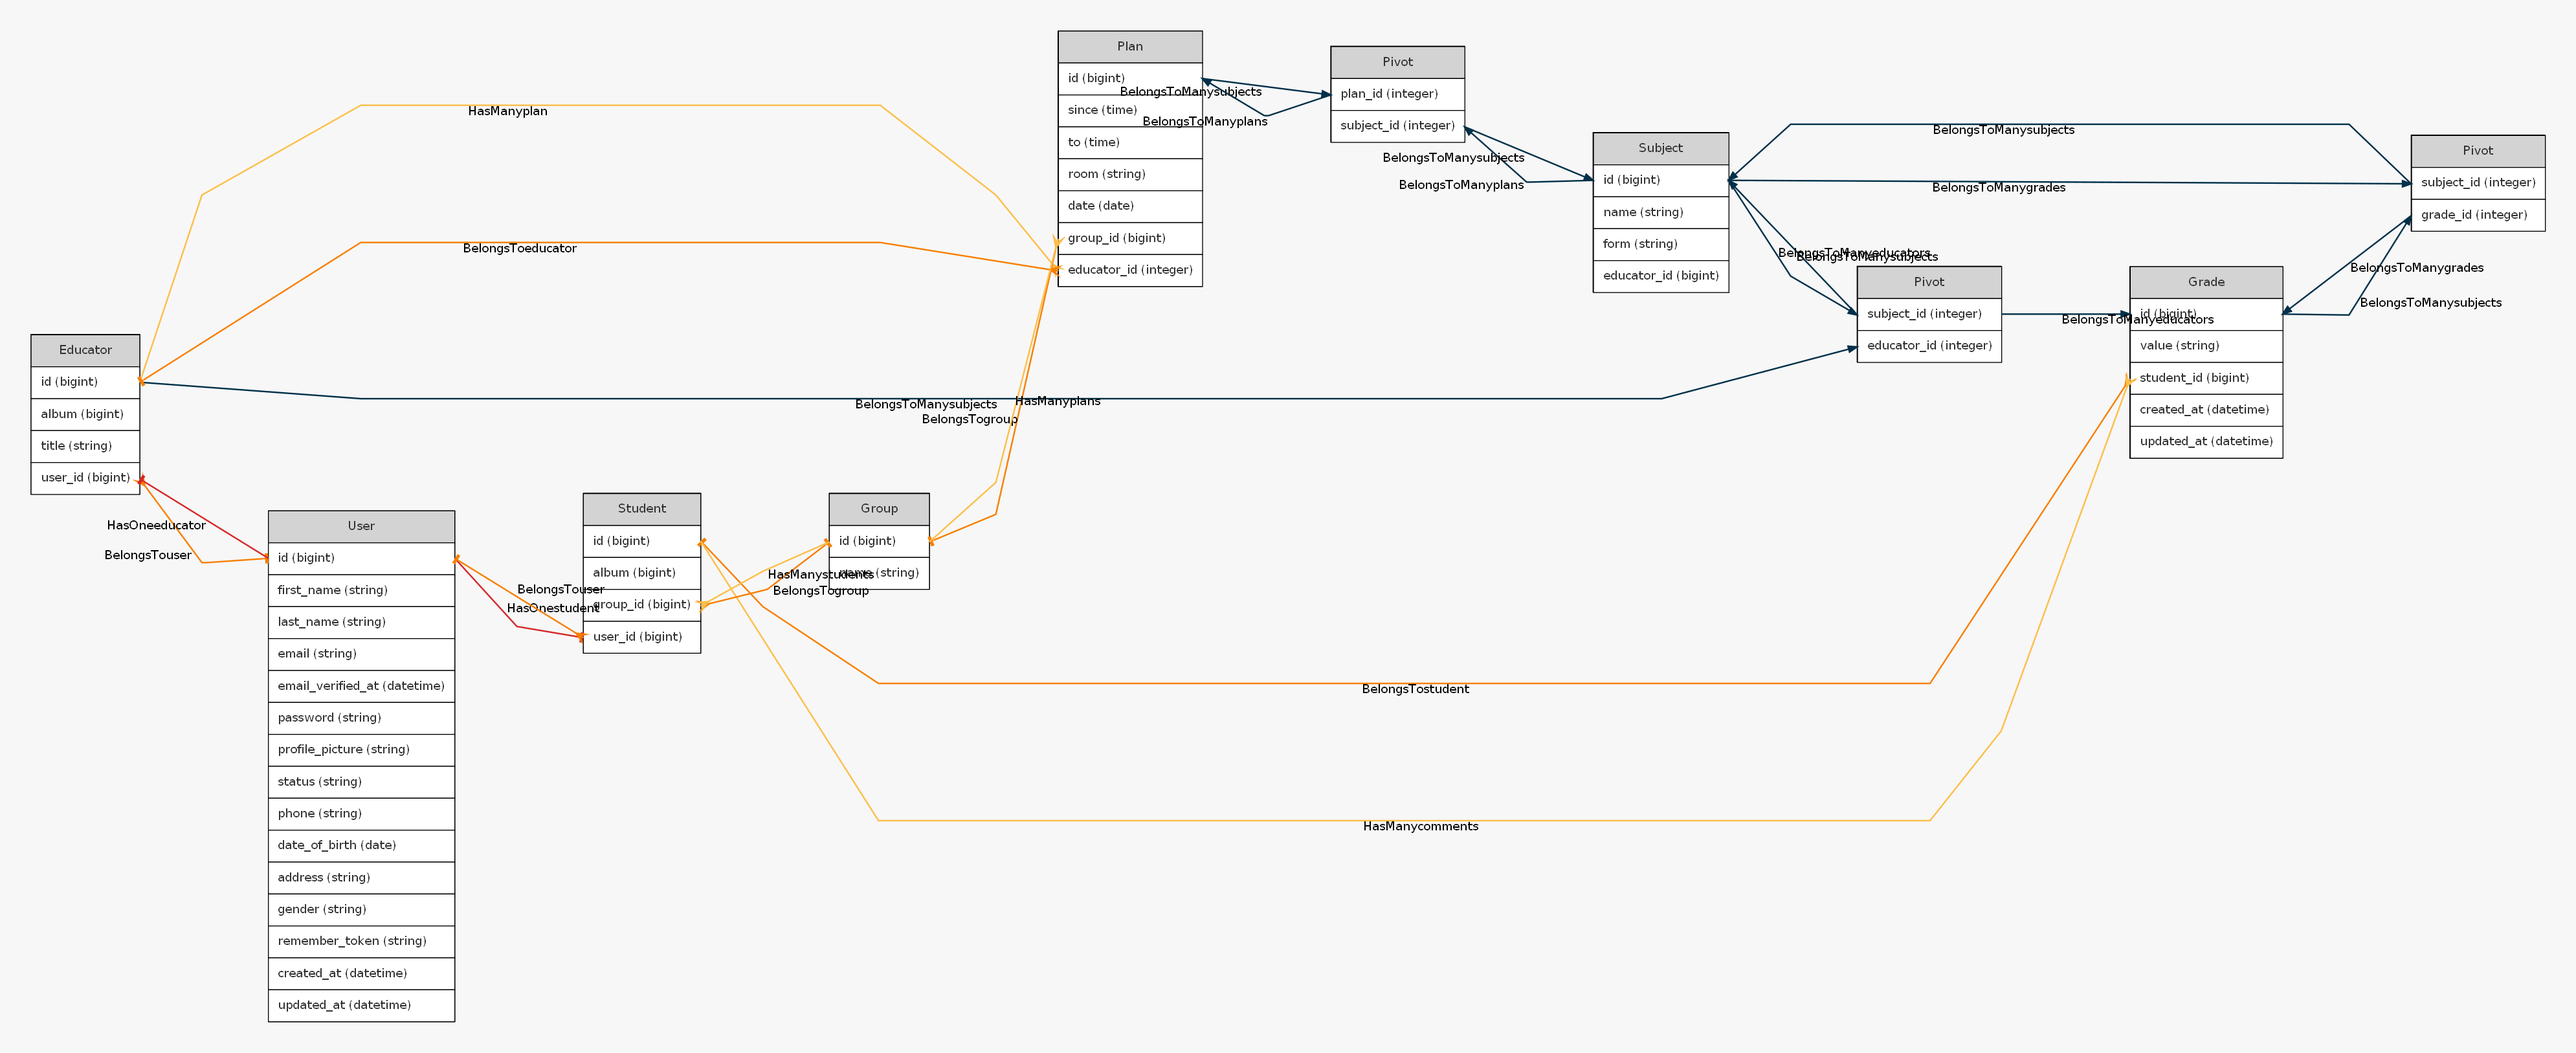
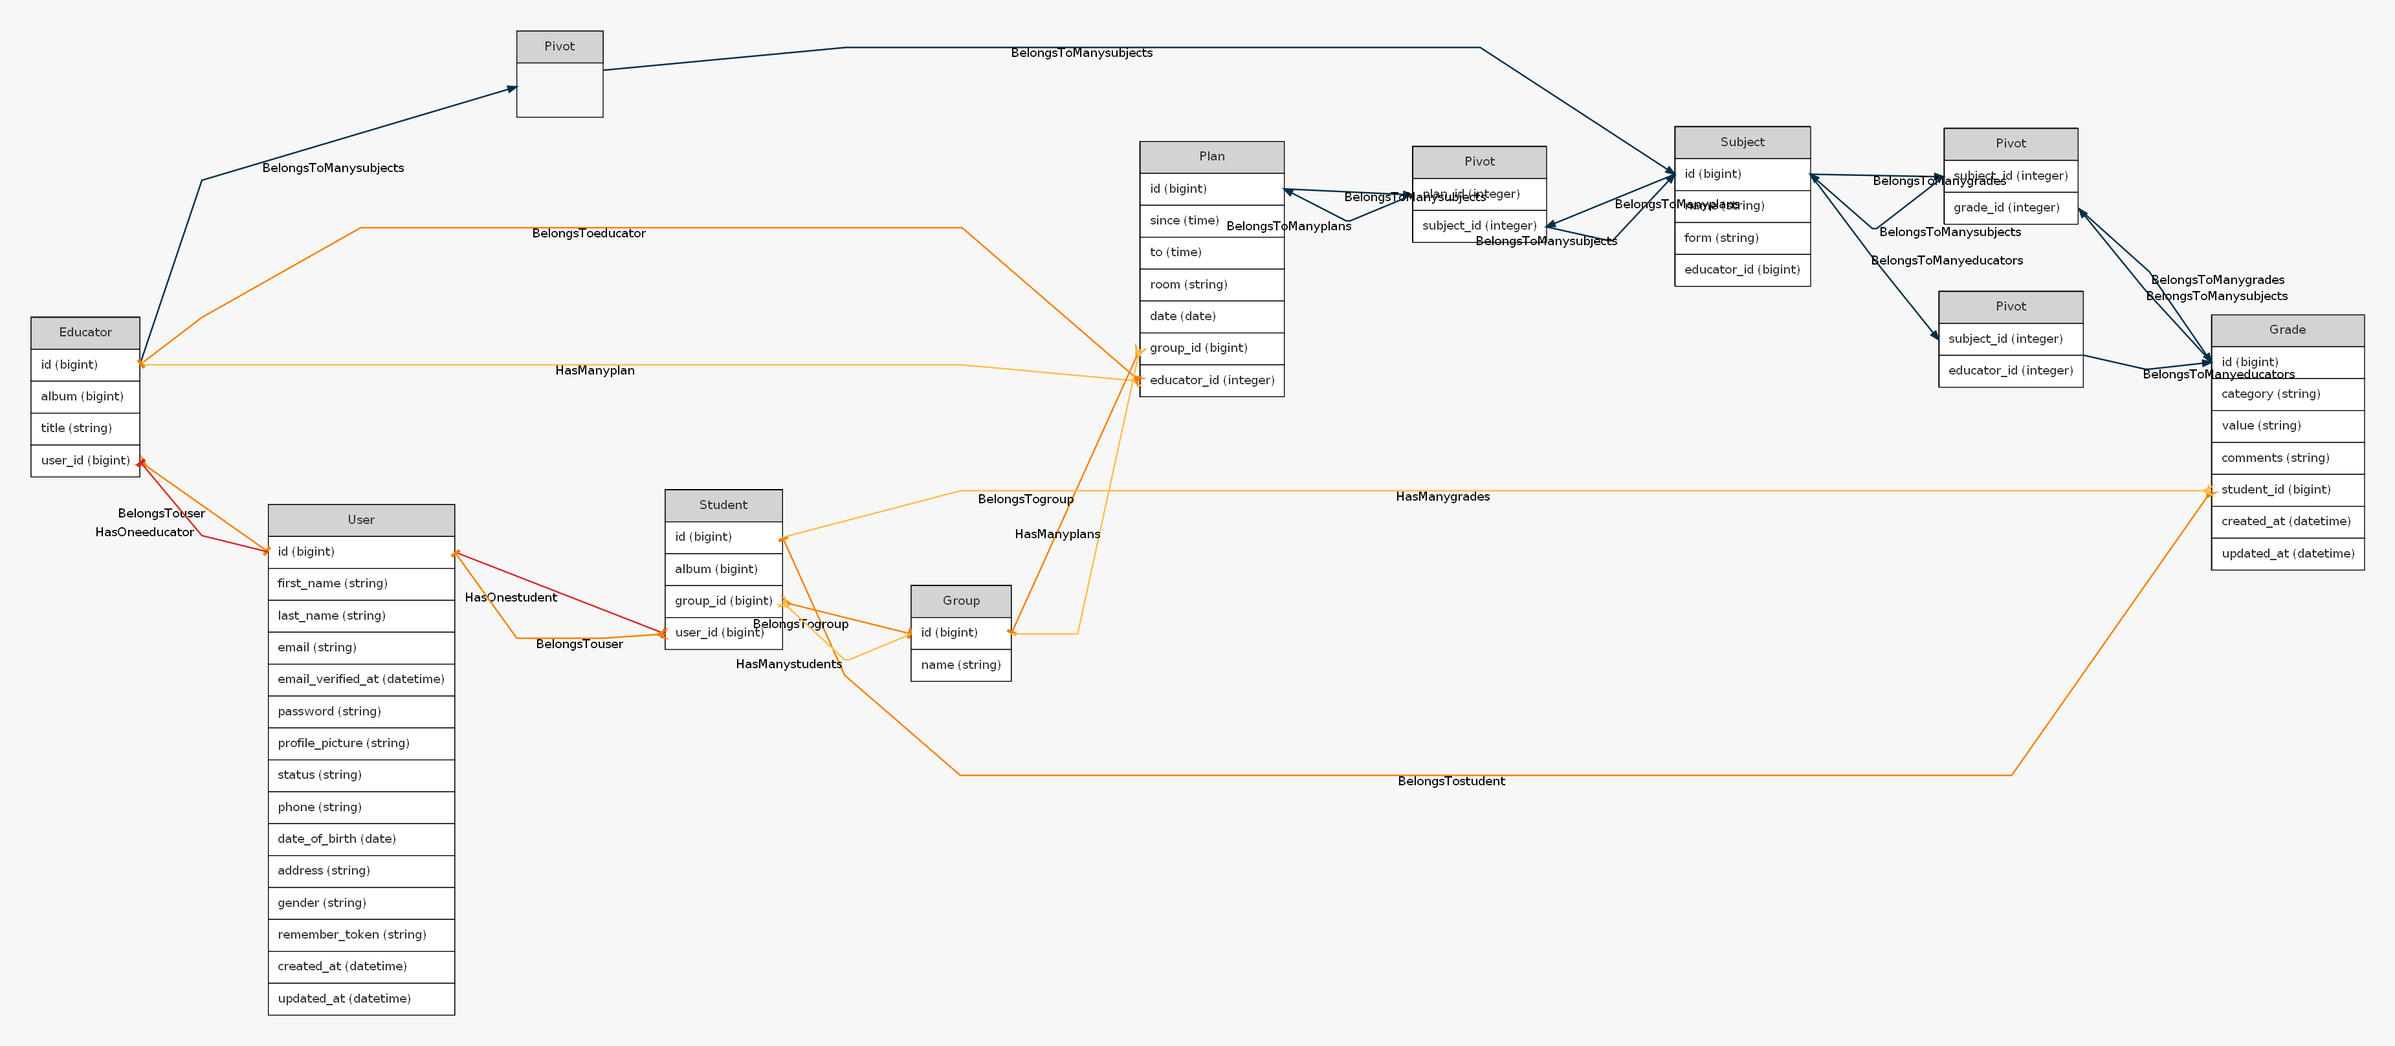
Partial Grades Added

diff --git a/backend/app/Http/Controllers/Student/DashboardController.php b/backend/app/Http/Controllers/Student/DashboardController.php
@@ -1,0 +1,95 @@
+<?php
+
+
+namespace App\Http\Controllers\Student;
+
+use App\Http\Controllers\Controller;
+use App\Http\Traits\dateFormatTrait;
+use App\Models\Grade;
+use App\Models\Student;
+use App\Models\Plan;
+use Illuminate\Support\Facades\Auth;
+use Illuminate\Support\Facades\DB;
+
+
+class DashboardController extends Controller
+{
+    public $student;
+
+    public function __construct()
+    {
+        $this->middleware('auth:api');
+
+    }
+
+    public function index()
+    {
+        return response()->json(
+            [
+                'student_data' => $this->dataStudent(), //Pobranie danych studenta
+                'day_plan' => $this->dayPlan(), //Pobranie planu z Current Day (Brak warunku)
+                'last_grades' => $this->lastGrades(),  //Pobranie ostatnich ocen
+                'avg_grades' => $this->avgGrades(),  //Pobranie średnich ocen
+            ], 200);
+    }
+
+    private function dataStudent(): array
+    {
+        $this->student = Student::with(['User', 'Group'])->where('students.user_id', Auth::id())->first();
+        $studentData['first_name'] = $this->student->user->first_name;
+        $studentData['last_name'] = $this->student->user->last_name;
+        $studentData['album'] = $this->student->album;
+        $studentData['profile_picture'] = $this->student->user->profile_picture;
+        $studentData['group'] = $this->student->group->name;
+        return $studentData;
+    }
+
+    private function dayPlan(): array
+    {
+        $plans = Plan::with(['subjects', 'educator'])
+            ->where('plans.group_id', $this->student->group->id)
+            ->get();
+
+        foreach ($plans as $plan) {
+            $resultDayPlan['name'] = $plan->subjects[0]->name;
+            $resultDayPlan['since'] = $plan->since;
+            $resultDayPlan['to'] = $plan->to;
+            $resultDayPlan['room'] = $plan->room;
+            $resultDayPlan['form'] = $plan->subjects[0]->form;
+            $fullName = $plan->educator->title . ' ' . $plan->educator->user->first_name . ' ' . $plan->educator->user->last_name;
+            $resultDayPlan['educator'] = $fullName;
+            $dayPlan[] = $resultDayPlan;
+        }
+        return $dayPlan;
+    }
+
+    private function lastGrades(): array
+    {
+        $grades = Grade::with('subjects')
+            ->where('grades.student_id', $this->student->user_id)
+            ->latest('created_at')
+            ->paginate(5);
+
+
+        $lastGrades = [];
+        foreach ($grades as $grade) {
+            $resultLastGrades['name'] = $grade->subjects[0]->name;
+            $resultLastGrades['form'] = $grade->subjects[0]->form;
+            $resultLastGrades['value'] = $grade->value;
+            $resultLastGrades['date'] = dateFormatTrait::format_Ymd_Hi($grade->created_at);
+            $lastGrades[] = $resultLastGrades;
+        }
+        return $lastGrades;
+    }
+
+    private function avgGrades()
+    {
+        return Grade::where('student_id', Auth::id())
+            ->join('subjects_grades', 'grades.id', '=', 'subjects_grades.grade_id')
+            ->join('subjects', 'subjects_grades.subject_id', '=', 'subjects.id')
+            ->groupBy('subjects.name')
+            ->select('subjects.name', DB::raw('avg(grades.value) as avg'))
+            ->get();
+
+    }
+}

diff --git a/backend/routes/api.php b/backend/routes/api.php
@@ -1,9 +1,10 @@
 <?php
 
+
 use Illuminate\Http\Request;
 use Illuminate\Support\Facades\Route;
-use App\Http\Controllers\AuthController;
-use App\Http\Controllers\DashboardController;
+
+
 
 /*
 |--------------------------------------------------------------------------
@@ -18,14 +19,21 @@ use App\Http\Controllers\DashboardController;
 
 Route::group([
     'middleware' => 'api',
+    'namespace'  => 'App\Http\Controllers\Auth',
     'prefix' => 'auth'
     ], function ($router) {
-        Route::post('/login', [AuthController::class, 'login']);
-        Route::post('/register', [AuthController::class, 'register']);
-        Route::post('/logout', [AuthController::class, 'logout']);
-        Route::post('/refresh', [AuthController::class, 'refresh']);
-        Route::get('/user-profile', [AuthController::class, 'userProfile']);
-        Route::get('/dashboard', [DashboardController::class, 'index']);
+        Route::post('login', 'AuthController@login');
+        Route::post('register', 'AuthController@register');
+        Route::post('logout', 'AuthController@logout');
+        Route::post('refresh', 'AuthController@refresh');
+});
+
+Route::group([
+    'middleware' => 'api',
+    'namespace'  => 'App\Http\Controllers\Student',
+], function ($router) {
+    Route::get('dashboard', 'DashboardController@index');
+    Route::get('partialGrades', 'PartialGradesController@index');
 });
 
 

diff --git a/backend/app/Http/Controllers/Student/PartialGradesController.php b/backend/app/Http/Controllers/Student/PartialGradesController.php
@@ -1,0 +1,38 @@
+<?php
+
+
+namespace App\Http\Controllers\Student;
+
+use App\Http\Controllers\Controller;
+use App\Http\Traits\dateFormatTrait;
+use App\Models\Grade;
+use App\Models\Student;
+use App\Models\Plan;
+use App\Models\Subject;
+use Illuminate\Database\Eloquent\Collection;
+use Illuminate\Support\Facades\Auth;
+use Illuminate\Support\Facades\DB;
+
+
+class PartialGradesController extends Controller
+{
+    public $student;
+
+    public function __construct()
+    {
+        $this->middleware('auth:api');
+    }
+
+    public function index()
+    {
+        $partialGrades = Subject::with(['grades' => function ($q) {
+            $q->select(
+                ['grades.category', 'grades.value', 'grades.comments', 'grades.created_at as date']
+            )->where('grades.student_id', Auth::id());
+        }])->get();
+
+        return response()->json(['partial_grades' => $partialGrades]);  //Pobranie ocen cząstkowych studenta
+    }
+
+
+}

diff --git a/backend/app/Http/Controllers/Auth/AuthController.php b/backend/app/Http/Controllers/Auth/AuthController.php
@@ -1,7 +1,8 @@
 <?php
 
-namespace App\Http\Controllers;
+namespace App\Http\Controllers\Auth;
 
+use App\Http\Controllers\Controller;
 use Illuminate\Http\Request;
 
 use Illuminate\Support\Facades\Auth;
@@ -109,11 +110,6 @@ class AuthController extends Controller
      *
      * @return \Illuminate\Http\JsonResponse
      */
-    public function userProfile()
-    {
-
-
-    }
 
     /**
      * Get the token array structure.
@@ -127,7 +123,7 @@ class AuthController extends Controller
         return response()->json([
             'access_token' => $token,
             'token_type' => 'bearer',
-            'expires_in' => auth()->factory()->getTTL()*30,
+            'expires_in' => auth()->factory()->getTTL()*2,
             //'user' => auth()->user()
         ]);
     }

diff --git a/backend/app/Exceptions/Handler.php b/backend/app/Exceptions/Handler.php
@@ -2,7 +2,9 @@
 
 namespace App\Exceptions;
 
+use Illuminate\Auth\AuthenticationException;
 use Illuminate\Foundation\Exceptions\Handler as ExceptionHandler;
+
 use Throwable;
 
 class Handler extends ExceptionHandler
@@ -36,6 +38,11 @@ class Handler extends ExceptionHandler
         $this->reportable(function (Throwable $e) {
             //
         });
+    }
+
+    protected function unauthenticated($request, AuthenticationException $exception)
+    {
+        return response()->json(['status' => 'Token is Expired. Go to refresh'], 404);
     }
 
 

diff --git a/backend/database/migrations/2021_01_04_181111_creates_grades_table.php b/backend/database/migrations/2021_01_04_181111_creates_grades_table.php
@@ -15,7 +15,9 @@ class CreatesGradesTable extends Migration
     {
         Schema::create('grades', function (Blueprint $table) {
             $table->id();
+            $table->string('category')->nullable();
             $table->string('value');
+            $table->string('comments')->nullable();
             $table->unsignedBigInteger('student_id');
             $table->timestamp('created_at')->useCurrent();
             $table->timestamp('updated_at')->useCurrent();

diff --git a/backend/app/Models/Grade.php b/backend/app/Models/Grade.php
@@ -7,7 +7,15 @@ use Illuminate\Database\Eloquent\Model;
 
 class Grade extends Model
 {
+    protected $fillable = [
+        'value','student_id',
+    ];
 
+    protected $hidden = ['pivot'];
+
+    protected $casts = [
+        'date' => 'datetime:Y-m-d',
+    ];
 
     public function subjects()
     {

diff --git a/backend/app/Models/Subject.php b/backend/app/Models/Subject.php
@@ -8,10 +8,10 @@ use Illuminate\Database\Eloquent\Builder;
 class Subject extends Model
 {
     protected $fillable = [
-        'educator_id',
-        'name',
-        'form'
+
     ];
+
+    protected $hidden = ['pivot','id','educator_id'];
 
     public function plans()
     {

diff --git a/backend/app/Models/Educator.php b/backend/app/Models/Educator.php
@@ -21,7 +21,7 @@ class Educator extends Model
 
     public function subjects()
     {
-        return $this->belongsToMany(Subject::class,'subjects_educators');
+        return $this->belongsToMany(Subject::class);
     }
 
     public function plan()

diff --git a/backend/app/Http/Middleware/Authenticate.php b/backend/app/Http/Middleware/Authenticate.php
@@ -22,8 +22,8 @@ class Authenticate extends Middleware
     {
 
 
-       if (!$request->expectsJson()) {
-           return route('login');
-       }
+//       if (!$request->expectsJson()) {
+//           return route('login');
+//       }
     }
 }

diff --git a/backend/app/Http/Traits/dateFormatTrait.php b/backend/app/Http/Traits/dateFormatTrait.php
@@ -4,7 +4,7 @@ namespace App\Http\Traits;
 
 trait dateFormatTrait
 {
-    public static function  format_Ymd_His($date)
+    public static function format_Ymd_Hi($date)
     {
         return $date->format('Y-m-d H:i');
     }

diff --git a/backend/app/Models/Student.php b/backend/app/Models/Student.php
@@ -23,7 +23,7 @@ class Student extends Model
         return $this->belongsTo(Group::class);
     }
 
-    public function comments()
+    public function grades()
     {
         return $this->hasMany(Grade::class);
     }
